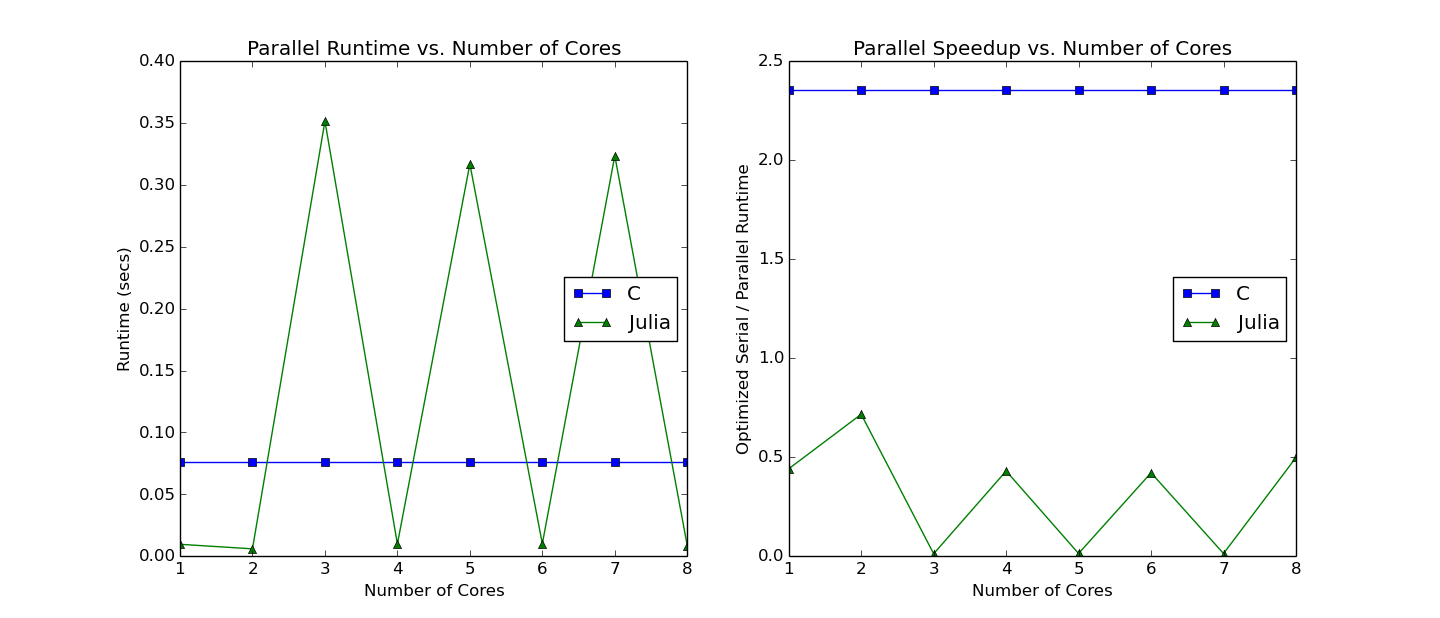
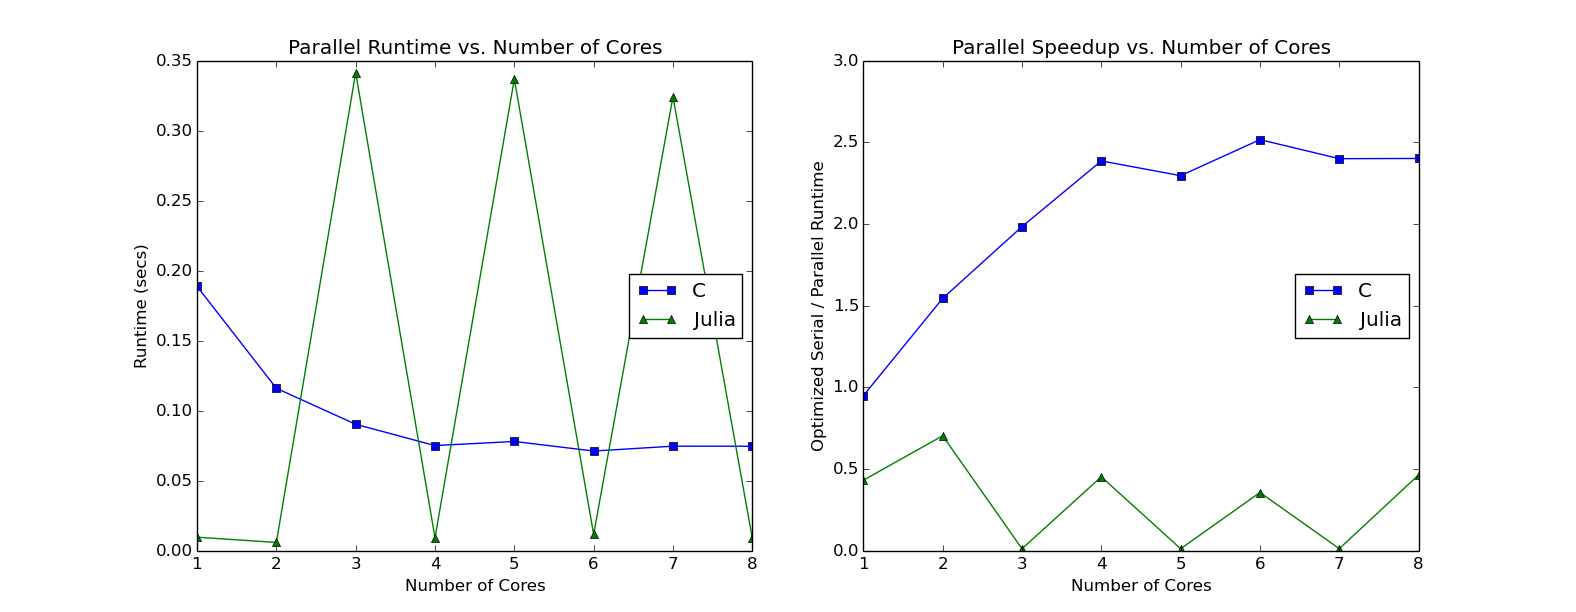
Benchmarks 3

diff --git a/src/scripts/run_bench.py b/src/scripts/run_bench.py
@@ -2,6 +2,7 @@
 
 import matplotlib.pyplot as plt
 from subprocess import call
+import sys
 
 AWSRUN = ""#"awsrun"
 C_FN_O = "c_output"
@@ -11,124 +12,124 @@ NUM_TRIALS = 10
 N = 2**23
 
 def run_c_impl(num_cilkwrks):
-  global AWSRUN
-  global C_FN_O
+    global AWSRUN
+    global C_FN_O
 
-  call("cd ../merge/c/; make clean; make -B", shell=True)
-  print call(AWSRUN + "export CILK_NWORKERS=%(num_cilkwrks)d && ../merge/c/test | tee " % locals() \
-       + C_FN_O, shell=True)
+    call("cd ../merge/c/; make clean; make -B", shell=True)
+    print call(AWSRUN + "export CILK_NWORKERS=%(num_cilkwrks)d && ../merge/c/test | tee " % locals() \
+         + C_FN_O, shell=True)
 
 def read_c_output(d, num_cilkwrks):
-  global C_FN_O
+    global C_FN_O
 
-  with open(C_FN_O, "r") as f:
-    for line in f:
-      print line,
-      if line.startswith("Average"):
-        if "Naive Serial Merge Sort" in line:
-          d['c']['serial'] = float(line.split(" ")[-1].rstrip("s\n"))
-        elif "Optimized Serial Merge Sort" in line:
-          d['c']['serial_opt'] = float(line.split(" ")[-1].rstrip("s\n"))
-        elif "Optimized Parallel Merge Sort" in line:
-          d['c']['parallel'][num_cilkwrks] = float(line.split(" ")[-1].rstrip("s\n"))
+    with open(C_FN_O, "r") as f:
+        for line in f:
+            print line,
+            if line.startswith("Average"):
+                if "Naive Serial Merge Sort" in line:
+                    d['c']['serial'] = float(line.split(" ")[-1].rstrip("s\n"))
+                elif "Optimized Serial Merge Sort" in line:
+                    d['c']['serial_opt'] = float(line.split(" ")[-1].rstrip("s\n"))
+                elif "Optimized Parallel Merge Sort" in line:
+                    d['c']['parallel'][num_cilkwrks] = float(line.split(" ")[-1].rstrip("s\n"))
 
 def collect_c_data(d):
-  for i in range(8):
-    #run_c_impl(i + 1)
-    read_c_output(d, i + 1)
+    for i in range(8):
+        run_c_impl(i + 1)
+        read_c_output(d, i + 1)
 
 def run_j_impl():
-  global J_FN_O
+    global J_FN_O
 
-  call("julia MyBenchmarks.jl | tee " + J_FN_O, shell=True)
+    call("julia MyBenchmarks.jl | tee " + J_FN_O, shell=True)
 
 def read_j_output(d):
-  global J_FN_O
+    global J_FN_O
 
-  with open(J_FN_O, "r") as f:
-    for line in f:
-        if "MySerialSort" in line:
-          d['j']['serial'] = float(line.split(" ")[-1].rstrip())
-        elif "MySerialOptSort" in line:
-          d['j']['serial_opt'] = float(line.split(" ")[-1].rstrip())
-        elif "MyParallelSort" in line:
-          d['j']['parallel_cpy'] = float(line.split(" ")[-1].rstrip())
-        elif "MyParallelSASort" in line:
-          num_procs = int(line.split(" ")[-2])
-          d['j']['parallel'][num_procs] = float(line.split(" ")[-1].rstrip())
+    with open(J_FN_O, "r") as f:
+        for line in f:
+            if "MySerialSort" in line:
+                d['j']['serial'] = float(line.split(" ")[-1].rstrip())
+            elif "MySerialOptSort" in line:
+                d['j']['serial_opt'] = float(line.split(" ")[-1].rstrip())
+            elif "MyParallelSort" in line:
+                d['j']['parallel_cpy'] = float(line.split(" ")[-1].rstrip())
+            elif "MyParallelSASort" in line:
+                num_procs = int(line.split(" ")[-2])
+                d['j']['parallel'][num_procs] = float(line.split(" ")[-1].rstrip())
 
 def collect_j_data(d):
-  #run_j_impl()
-  read_j_output(d)
+    run_j_impl()
+    read_j_output(d)
 
 def stats_summary(d):
-  print d
-  for l in ['j']:
-    lang = "Julia" if l == "j" else "C"
-    print lang + " Implementation Results"
-    for k in d[l].keys():
-      if k != 'parallel':
-        result = d[l][k]
-        print "\t%(k)s : %(result)f" % locals()
-      else:
-        print "\tParallel Performance by Number of Workers"
-        for i in range(1, 9):
-          result = d[l][k][i]
-          print "\t\t%(i)d : %(result)f" % locals()
+    print d
+    for l in ['j']:
+        lang = "Julia" if l == "j" else "C"
+        print lang + " Implementation Results"
+        for k in d[l].keys():
+            if k != 'parallel':
+                result = d[l][k]
+                print "\t%(k)s : %(result)f" % locals()
+            else:
+                print "\tParallel Performance by Number of Workers"
+                for i in range(1, 9):
+                    result = d[l][k][i]
+                    print "\t\t%(i)d : %(result)f" % locals()
 
 def plot_data(d):
-  plt.subplot(1, 2, 1)
-  x = range(1,9)
-  y1 = [d['c']['parallel'][i] for i in x]
-  y2 = [d['j']['parallel'][i] for i in x]
+    plt.subplot(1, 2, 1)
+    x = range(1,9)
+    y1 = [d['c']['parallel'][i] for i in x]
+    y2 = [d['j']['parallel'][i] for i in x]
 
-  plt.plot(x, y1, 'bs-', label='C')
-  plt.plot(x, y2, 'g^-', label='Julia')
-  plt.title("Parallel Runtime vs. Number of Cores")
-  plt.xlabel("Number of Cores")
-  plt.ylabel("Runtime (secs)")
-  plt.legend(loc='right')
-  #plt.show()
+    plt.plot(x, y1, 'bs-', label='C')
+    plt.plot(x, y2, 'g^-', label='Julia')
+    plt.title("Parallel Runtime vs. Number of Cores")
+    plt.xlabel("Number of Cores")
+    plt.ylabel("Runtime (secs)")
+    plt.legend(loc='right')
+    #plt.show()
 
-  plt.subplot(1, 2, 2)
-  x = range(1,9)
-  y1 = [d['c']['serial_opt'] / d['c']['parallel'][i] for i in x]
-  y2 = [d['j']['serial_opt'] / d['j']['parallel'][i] for i in x]
-  plt.plot(x, y1, 'bs-', label='C')
-  plt.plot(x, y2, 'g^-', label='Julia')
-  plt.title("Parallel Speedup vs. Number of Cores")
-  plt.xlabel("Number of Cores")
-  plt.ylabel("Optimized Serial / Parallel Runtime")
-  plt.legend(loc='right')
-  plt.show()
+    plt.subplot(1, 2, 2)
+    x = range(1,9)
+    y1 = [d['c']['serial_opt'] / d['c']['parallel'][i] for i in x]
+    y2 = [d['j']['serial_opt'] / d['j']['parallel'][i] for i in x]
+    plt.plot(x, y1, 'bs-', label='C')
+    plt.plot(x, y2, 'g^-', label='Julia')
+    plt.title("Parallel Speedup vs. Number of Cores")
+    plt.xlabel("Number of Cores")
+    plt.ylabel("Optimized Serial / Parallel Runtime")
+    plt.legend(loc='right')
+    plt.show()
 
 def cleanup():
-  global C_FN_O
-  global J_FN_O
+    global C_FN_O
+    global J_FN_O
 
-  call("rm " + C_FN_O + " " + J_FN_O, shell=True)
+    call("rm " + C_FN_O + " " + J_FN_O, shell=True)
 
 data = {
-  'c' : {
-    'serial'     : None,
-    'serial_opt' : None,
-    'parallel'   : {
-      i : None for i in range(1,9)
+    'c' : {
+        'serial'         : None,
+        'serial_opt'     : None,
+        'parallel'       : {
+            i : None for i in range(1,9)
+        }
+    },
+    'j' : {
+        'serial'         : None,
+        'serial_opt'     : None,
+        'parallel_cpy'   : None,
+        'parallel'       : {
+            i : None for i in range(1,9)
+        }
     }
-  },
-  'j' : {
-    'serial'       : None,
-    'serial_opt'   : None,
-    'parallel_cpy' : None,
-    'parallel'     : {
-      i : None for i in range(1,9)
-    }
-  }
 }
 
 if __name__ == "__main__":
-  #cleanup()
-  collect_c_data(data)
-  collect_j_data(data)
-  stats_summary(data)
-  plot_data(data)
+    cleanup()
+    collect_c_data(data)
+    collect_j_data(data)
+    stats_summary(data)
+    plot_data(data)
